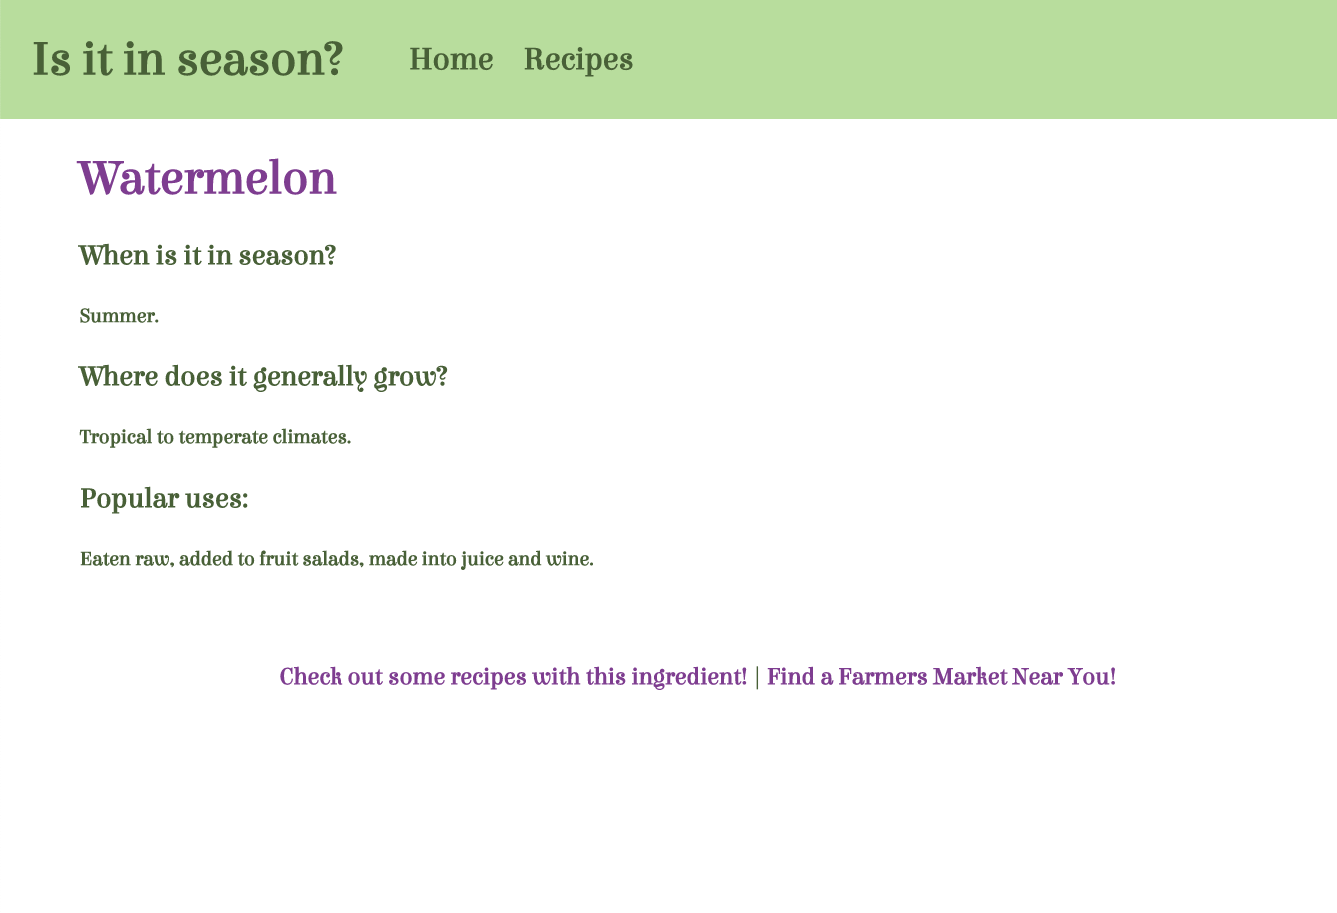
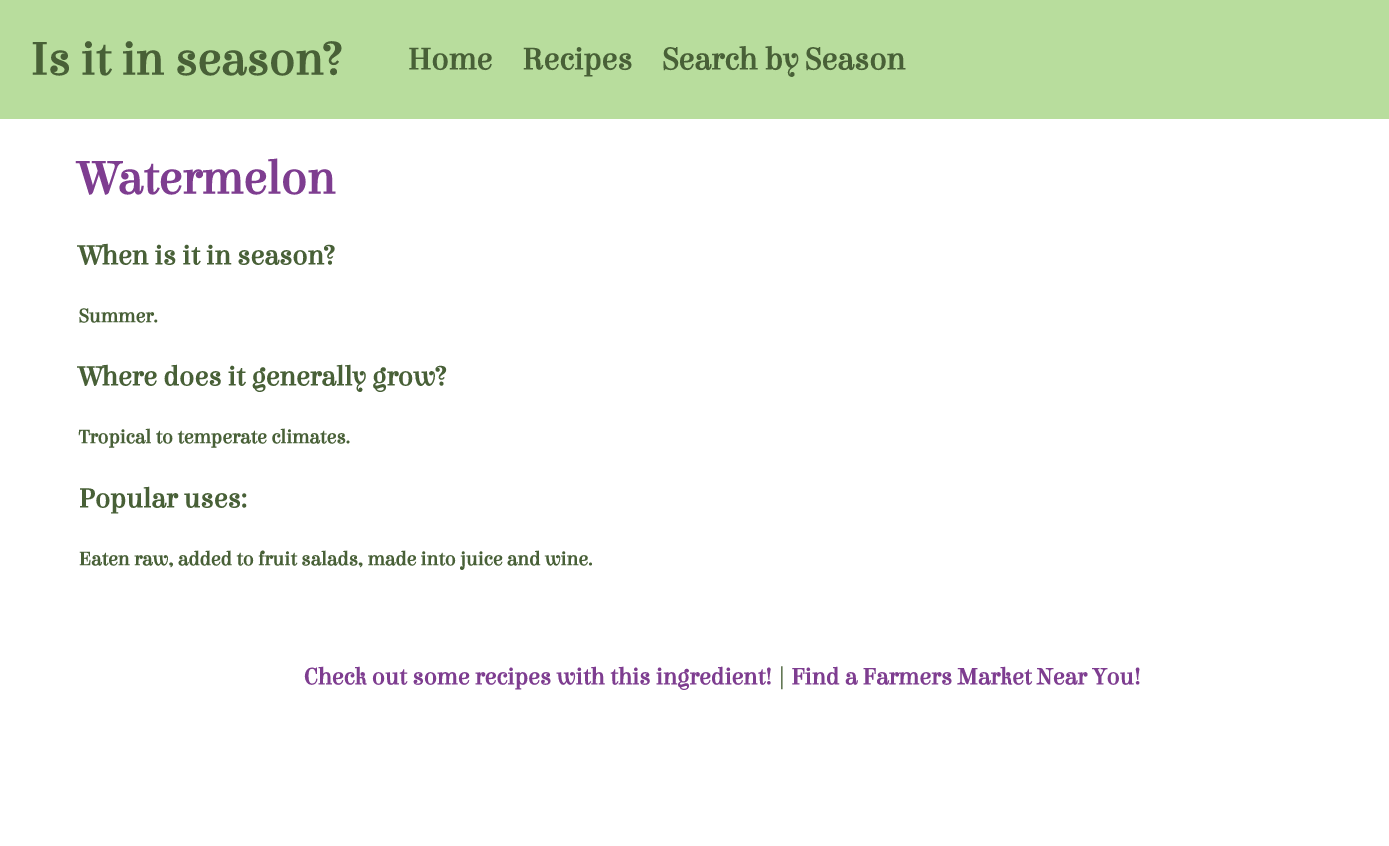
Update README and screenshots

diff --git a/README.md b/README.md
@@ -39,7 +39,11 @@ Hovering over an item for the link
 Details about each item
 ![Details page](details.png)
 The recipes page
-![Recipe links](recipes-page.png)
+![Recipe links](recipes.png)
+Selecting a group of items by season
+![Seasonal search page](search-by-season.png)
+Grouping of items based on their harvest season
+![Fall items listed](fall-details.png)
 
 ## Getting Started with Create React App
 
